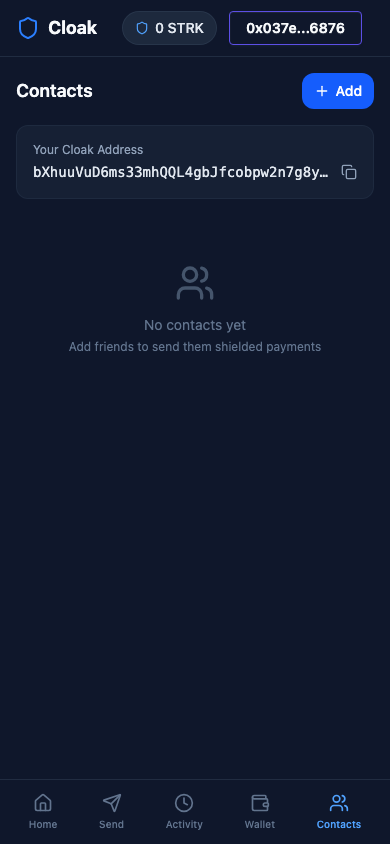
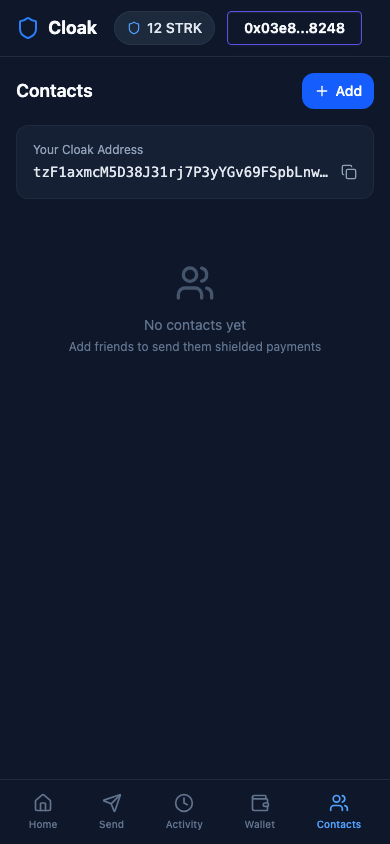
Multi-wallet E2E verified: cross-account transfers on Sepolia
- Add localStorage account override to TestConnector for multi-session testing
- Verified full flow with two accounts (Alice + Bob):
  Alice shields 10 STRK, sends 3 to Bob, Bob claims, Bob sends 5 back
  Final: Alice=12, Bob=8 (all correct)
- Update README screenshots with real transaction data
- Add send-success and wallet-pending screenshots

diff --git a/packages/nextjs/services/web3/test-connector.ts b/packages/nextjs/services/web3/test-connector.ts
@@ -58,7 +58,23 @@ export class TestConnector extends InjectedConnector {
     return true;
   }
 
+  /**
+   * Returns active address/key, preferring localStorage overrides
+   * so different browser sessions can use different accounts.
+   */
+  private _getCredentials() {
+    if (typeof window !== "undefined") {
+      const overrideAddr = localStorage.getItem("cloak_test_address");
+      const overrideKey = localStorage.getItem("cloak_test_key");
+      if (overrideAddr && overrideKey) {
+        return { address: overrideAddr, privateKey: overrideKey };
+      }
+    }
+    return { address: this._address, privateKey: this._privateKey };
+  }
+
   async account() {
+    const { address, privateKey } = this._getCredentials();
     const networkName = this._chain.network as string;
     const rpcUrl = getRpcUrl(networkName);
 
@@ -67,8 +83,8 @@ export class TestConnector extends InjectedConnector {
         nodeUrl: rpcUrl,
         chainId: starknetChainId(this._chain.id),
       }),
-      address: this._address,
-      signer: this._privateKey,
+      address,
+      signer: privateKey,
     });
   }
 
@@ -77,11 +93,11 @@ export class TestConnector extends InjectedConnector {
   }
 
   async connect() {
-    const account = await this.account();
+    const { address } = this._getCredentials();
     const chainId = this._chain.id;
-    this.emit("connect", { account: account.address, chainId });
+    this.emit("connect", { account: address, chainId });
     return {
-      account: account.address,
+      account: address,
       chainId,
     };
   }

diff --git a/README.md b/README.md
@@ -38,13 +38,17 @@ Public Wallet (ERC20)
 
 ## Screenshots
 
-| Home | Send Payment | Wallet |
+| Home | Send Payment | Payment Sent |
 |:----:|:----:|:------:|
-| ![Home](docs/screenshots/home-connected.png) | ![Send](docs/screenshots/send-step3-note.png) | ![Wallet](docs/screenshots/wallet-connected.png) |
+| ![Home](docs/screenshots/home-connected.png) | ![Send](docs/screenshots/send-step3-note.png) | ![Sent](docs/screenshots/send-success.png) |
 
-| Shield Modal | Contacts | Settings |
-|:--------:|:--------:|:--------:|
-| ![Shield](docs/screenshots/wallet-shield-modal.png) | ![Contacts](docs/screenshots/contact-added.png) | ![Settings](docs/screenshots/settings-connected.png) |
+| Wallet | Pending Funds | Shield Modal |
+|:------:|:--------:|:--------:|
+| ![Wallet](docs/screenshots/wallet-connected.png) | ![Pending](docs/screenshots/wallet-pending.png) | ![Shield](docs/screenshots/wallet-shield-modal.png) |
+
+| Contacts | Settings |
+|:--------:|:--------:|
+| ![Contacts](docs/screenshots/contacts-connected.png) | ![Settings](docs/screenshots/settings-connected.png) |
 
 ## Key Features
 
